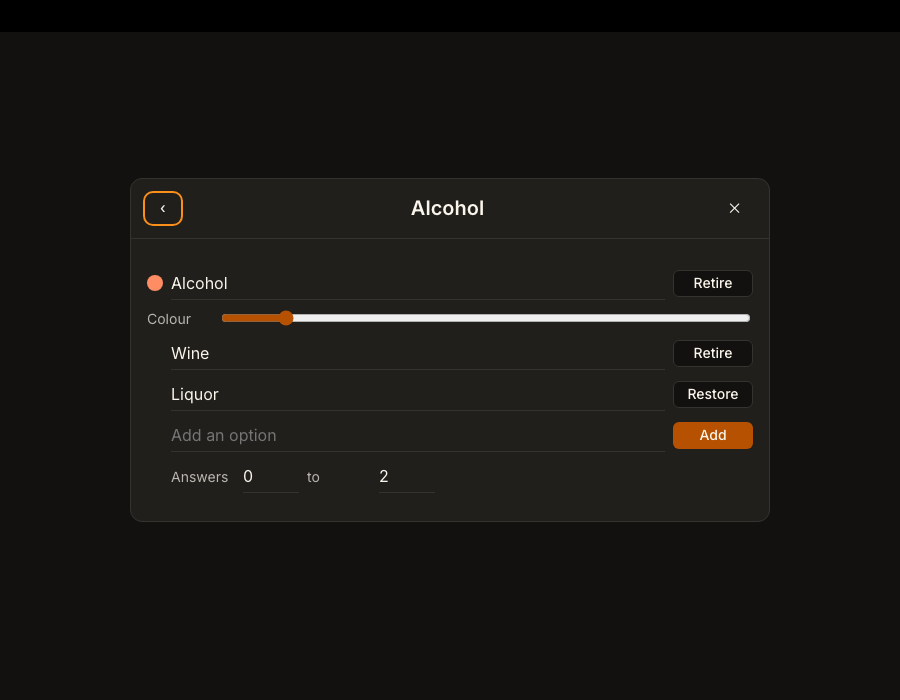
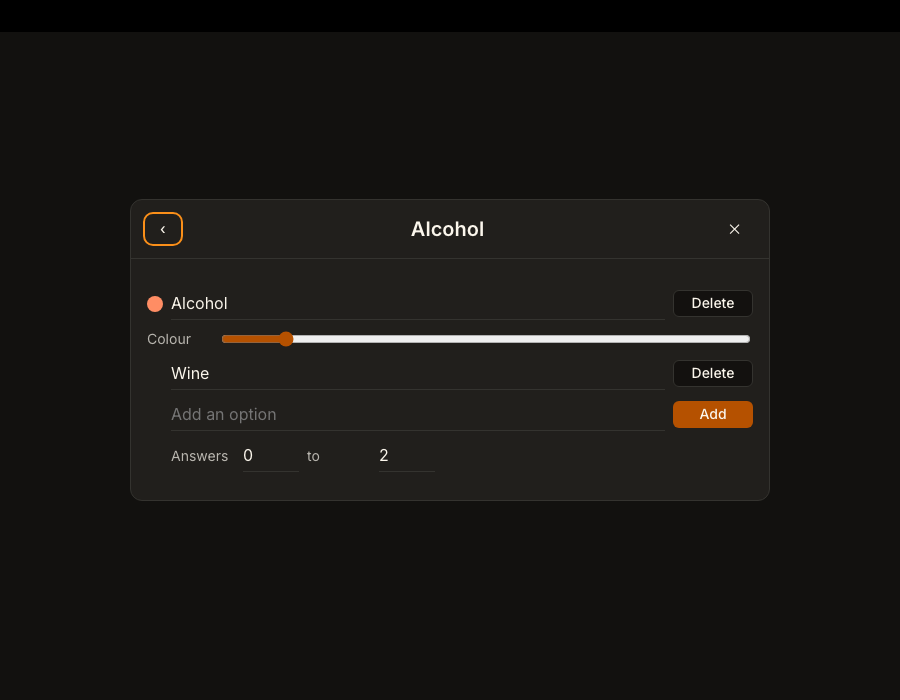
feat(tag): frame retiring as delete and hide deleted entries

diff --git a/src/tag/TagEditor.tsx b/src/tag/TagEditor.tsx
@@ -2,7 +2,7 @@ import styles from './TagEditor.module.scss'
 import { Button } from '#src/button/Button.js'
 import { classNames } from '#src/string/class-names.js'
 import { addChoice, updateChoice } from '#src/tag/tag.edit.js'
-import type { Choice, ChoiceId, Tag } from '#src/tag/tag.model.js'
+import type { ChoiceId, Tag } from '#src/tag/tag.model.js'
 import { validateTag } from '#src/tag/tag.validation.js'
 import { createSignal, For, Show, type JSX } from 'solid-js'
 
@@ -34,7 +34,7 @@ export function TagEditor(props: TagEditorProps): JSX.Element {
   }
 
   return (
-    <section class={classNames(styles.editor, !props.tag.active && styles.retired)}>
+    <section class={styles.editor}>
       <div class={styles.row}>
         <span class={styles.swatch} style={{ 'background-color': swatch(props.tag.hue) }} />
 
@@ -52,10 +52,10 @@ export function TagEditor(props: TagEditorProps): JSX.Element {
           size="sm"
           class={styles.action}
           onClick={() => {
-            change({ ...props.tag, active: !props.tag.active })
+            change({ ...props.tag, active: false })
           }}
         >
-          {props.tag.active ? 'Retire' : 'Restore'}
+          Delete
         </Button>
       </div>
 
@@ -76,7 +76,7 @@ export function TagEditor(props: TagEditorProps): JSX.Element {
       </div>
 
       <div class={styles.options}>
-        <For each={props.tag.choices?.options ?? []}>
+        <For each={props.tag.choices?.options.filter((option) => option.active) ?? []}>
           {(option) => (
             <div class={styles.row}>
               <input
@@ -93,10 +93,10 @@ export function TagEditor(props: TagEditorProps): JSX.Element {
                 size="sm"
                 class={styles.action}
                 onClick={() => {
-                  change(toggleOption(props.tag, option.id, option))
+                  change(deleteOption(props.tag, option.id))
                 }}
               >
-                {option.active ? 'Retire' : 'Restore'}
+                Delete
               </Button>
             </div>
           )}
@@ -160,8 +160,8 @@ function renameOption(tag: Tag, choiceId: ChoiceId, label: string): Tag {
   return updateChoice(tag, choiceId, (choice) => ({ ...choice, label }))
 }
 
-function toggleOption(tag: Tag, choiceId: ChoiceId, option: Choice): Tag {
-  return updateChoice(tag, choiceId, (choice) => ({ ...choice, active: !option.active }))
+function deleteOption(tag: Tag, choiceId: ChoiceId): Tag {
+  return updateChoice(tag, choiceId, (choice) => ({ ...choice, active: false }))
 }
 
 function swatch(hue: number): string {

diff --git a/src/tag/tag.edit.test.ts b/src/tag/tag.edit.test.ts
@@ -45,6 +45,37 @@ describe('addTag', () => {
     expect(next.tags.map((tag) => tag.label)).toEqual(['One', 'Two'])
   })
 
+  test('should restore a deleted tag with the same name', () => {
+    const config = deleteTag(addTag(empty(), 'Coffee'), 'coffee')
+
+    const next = addTag(config, 'Coffee')
+
+    expect(next.tags).toHaveLength(1)
+    expect(next.tags.at(0)?.active).toBe(true)
+  })
+
+  test('should keep a restored tag on its original id', () => {
+    const config = deleteTag(addTag(empty(), 'Coffee'), 'coffee')
+
+    const next = addTag(config, 'Coffee')
+
+    expect(next.tags.at(0)?.id).toBe('coffee')
+  })
+
+  test('should take the label as retyped when restoring', () => {
+    const config = deleteTag(addTag(empty(), 'Coffee'), 'coffee')
+
+    const next = addTag(config, 'COFFEE')
+
+    expect(next.tags.at(0)?.label).toBe('COFFEE')
+  })
+
+  test('should still suffix when the clash is with a live tag', () => {
+    const next = addTag(addTag(empty(), 'Coffee'), 'Coffee')
+
+    expect(next.tags.map((tag) => tag.id)).toEqual(['coffee', 'coffee-2'])
+  })
+
   test('should not mutate the config it is given', () => {
     const config = empty()
 
@@ -106,6 +137,15 @@ describe('addChoice', () => {
     expect(next.choices).toMatchObject({ minAnswers: 1, maxAnswers: 3 })
   })
 
+  test('should restore a deleted option with the same name', () => {
+    const tag = deleteOption(addChoice(plainTag(), 'Wine'), 'wine')
+
+    const next = addChoice(tag, 'Wine')
+
+    expect(next.choices?.options).toHaveLength(1)
+    expect(next.choices?.options.at(0)?.active).toBe(true)
+  })
+
   test('should avoid an option id already taken', () => {
     const next = addChoice(addChoice(plainTag(), 'Wine'), 'Wine')
 
@@ -139,6 +179,14 @@ describe('updateChoice', () => {
 
 function empty(): TagConfig {
   return { schemaVersion: 1, tags: [] }
+}
+
+function deleteTag(config: TagConfig, id: string): TagConfig {
+  return updateTag(config, id as TagId, (tag) => ({ ...tag, active: false }))
+}
+
+function deleteOption(tag: Tag, id: string): Tag {
+  return updateChoice(tag, id as ChoiceId, (choice) => ({ ...choice, active: false }))
 }
 
 function plainTag(): Tag {

diff --git a/src/tag/tag.edit.ts b/src/tag/tag.edit.ts
@@ -1,9 +1,20 @@
+import { slugify } from '#src/string/slugify.js'
 import { nextHue } from '#src/tag/tag.color.js'
 import { allocateChoiceId, allocateTagId } from '#src/tag/tag.id.js'
 import type { Choice, ChoiceId, Tag, TagConfig, TagId } from '#src/tag/tag.model.js'
 
-/** Adds a tag with an id nothing else uses and a hue far from the ones already taken. */
+/**
+ * Adds a tag with an id nothing else uses and a hue far from the ones already taken. Naming it
+ * the same as a deleted tag brings that one back instead, so its history reattaches rather
+ * than being stranded behind a second id.
+ */
 export function addTag(config: TagConfig, label: string): TagConfig {
+  const deleted = config.tags.find((tag) => tag.id === slugify(label) && !tag.active)
+
+  if (deleted !== undefined) {
+    return updateTag(config, deleted.id, (tag) => ({ ...tag, label, active: true }))
+  }
+
   const id = allocateTagId(
     label,
     config.tags.map((tag) => tag.id),
@@ -18,9 +29,15 @@ export function updateTag(config: TagConfig, tagId: TagId, update: (tag: Tag) =>
   return { ...config, tags: config.tags.map((tag) => (tag.id === tagId ? update(tag) : tag)) }
 }
 
-/** Adds an option, creating the choice set when this is the tag's first one. */
+/** Adds an option, creating the choice set when this is the tag's first one. A name matching
+ * a deleted option restores it, on the same reasoning as addTag. */
 export function addChoice(tag: Tag, label: string): Tag {
   const options = tag.choices?.options ?? []
+  const deleted = options.find((option) => option.id === slugify(label) && !option.active)
+
+  if (deleted !== undefined) {
+    return updateChoice(tag, deleted.id, (option) => ({ ...option, label, active: true }))
+  }
 
   const choice: Choice = {
     id: allocateChoiceId(

diff --git a/src/tag/TagConfigMenu.tsx b/src/tag/TagConfigMenu.tsx
@@ -1,7 +1,6 @@
 import styles from './TagConfigMenu.module.scss'
 import { Button } from '#src/button/Button.js'
 import { Dialog } from '#src/dialog/Dialog.js'
-import { classNames } from '#src/string/class-names.js'
 import { TagEditor } from '#src/tag/TagEditor.js'
 import { addTag, updateTag } from '#src/tag/tag.edit.js'
 import type { Tag, TagConfig, TagId } from '#src/tag/tag.model.js'
@@ -45,8 +44,16 @@ export function TagConfigMenu(props: TagConfigMenuProps): JSX.Element {
     setEditing(next.tags.at(-1)?.id)
   }
 
+  function liveTags(): Tag[] {
+    return props.config.tags.filter((tag) => tag.active)
+  }
+
   function replace(tag: Tag): void {
     props.onChange(updateTag(props.config, tag.id, () => tag))
+
+    if (!tag.active) {
+      setEditing(undefined)
+    }
   }
 
   function back(): void {
@@ -86,9 +93,9 @@ export function TagConfigMenu(props: TagConfigMenuProps): JSX.Element {
           fallback={<p class={styles.empty}>No tags yet.</p>}
         >
           <ul class={styles.list}>
-            <For each={props.config.tags}>
+            <For each={liveTags()}>
               {(tag) => (
-                <li class={classNames(styles.item, !tag.active && styles.retired)}>
+                <li class={styles.item}>
                   <span class={styles.swatch} style={{ 'background-color': swatch(tag.hue) }} />
                   <span class={styles.name}>{tag.label}</span>
 
